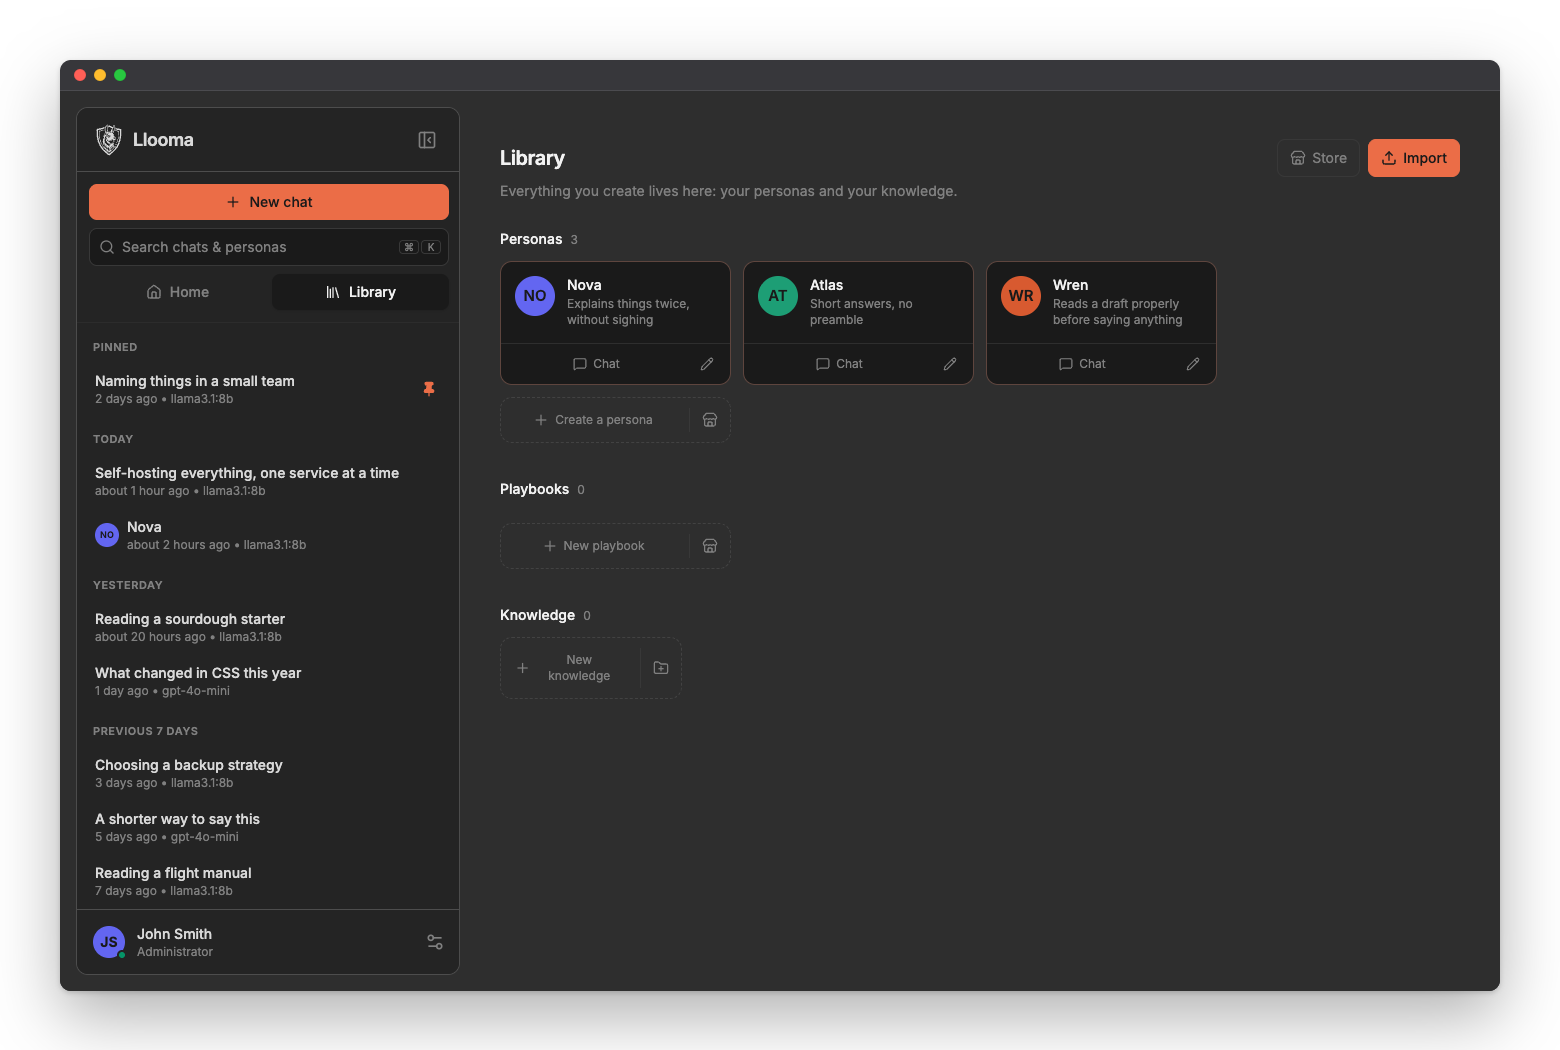
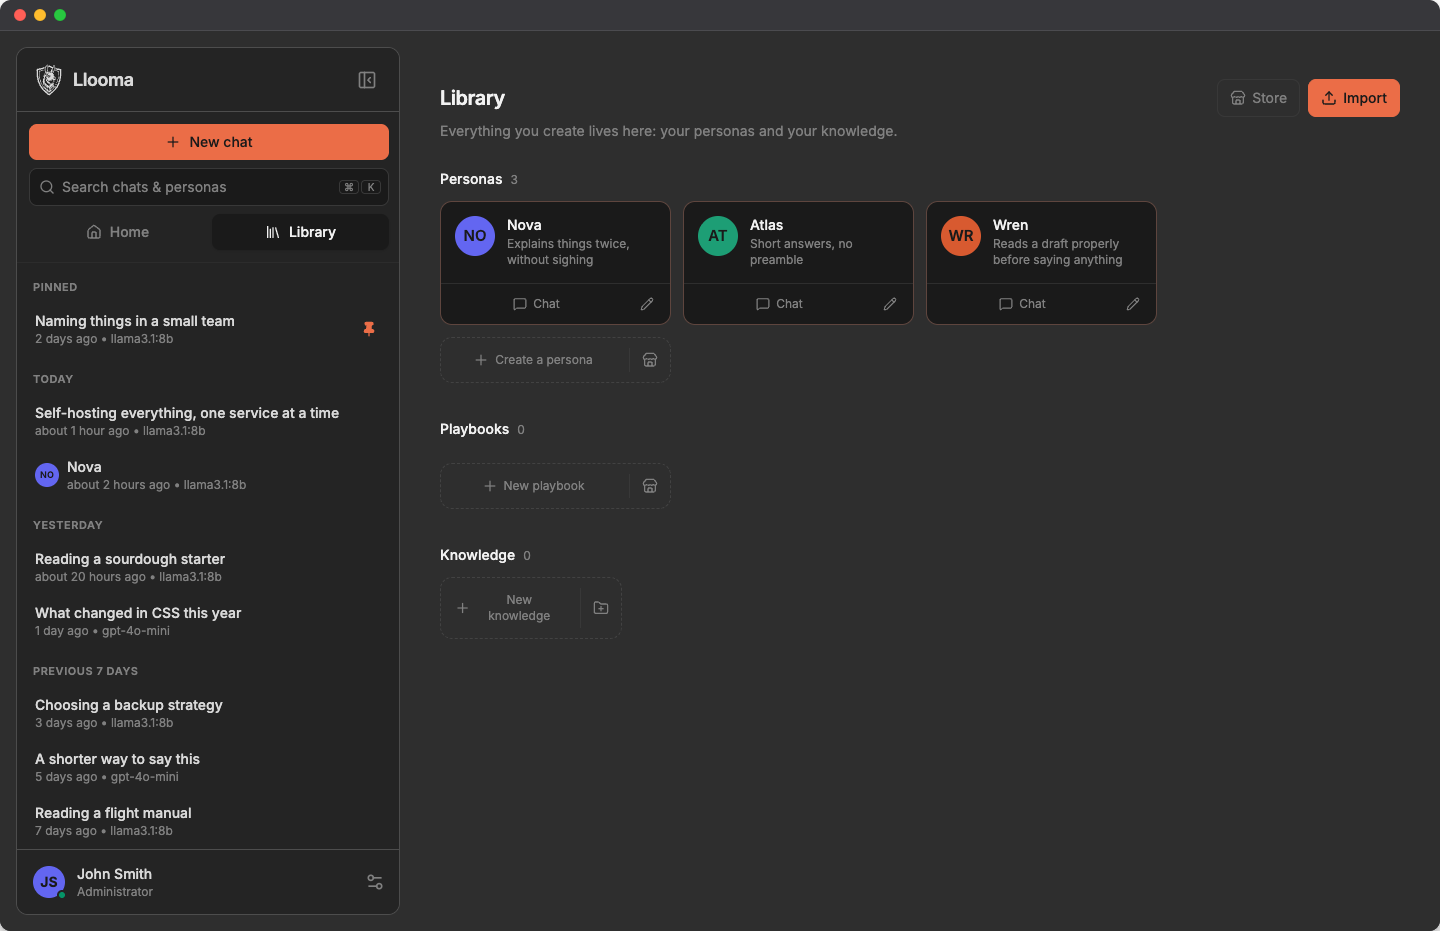
fix(docs): crop the screenshots to the window and draw their shadow in CSS

diff --git a/docs/src/styles/custom.css b/docs/src/styles/custom.css
@@ -239,11 +239,16 @@
 }
 
 /*
- * A screenshot. Every asset here is already a framed window on a transparent
- * ground, with its own shadow drawn in about 60px of margin around it, so the
- * page adds nothing: a border and a radius would land on that empty margin
- * rather than on the window, drawing a rectangle a long way outside the frame
- * and cutting the shadow off against its edge. Only the glow behind stays.
+ * A screenshot. Every asset is a rounded window on a transparent ground, cropped
+ * to the window itself, and the shadow under it is drawn here.
+ *
+ * Twice now it has been drawn the wrong way. A `box-shadow` and a border apply to
+ * the element's box, which for a rounded shape on transparency is a rectangle
+ * around it rather than under it. The assets then carried a baked shadow of their
+ * own, in 60px of margin, but one that was still at 8% alpha where the file ended:
+ * a hard line along the bottom, which is the square that would not go away. Hence
+ * `drop-shadow`, which follows the alpha and fades to nothing, on an image with no
+ * margin left to cut. The hero has always done it this way.
  */
 .shot {
 	position: relative;
@@ -257,6 +262,7 @@
 	display: block;
 	width: 100%;
 	height: auto;
+	filter: drop-shadow(0 18px 34px rgb(0 0 0 / 0.32));
 }
 
 .shot::before {
@@ -417,6 +423,7 @@
 	display: block;
 	width: 100%;
 	height: auto;
+	filter: drop-shadow(0 16px 30px rgb(0 0 0 / 0.3));
 }
 
 /* The phone is taller than it is wide, so it needs a cap the desktop shots do
